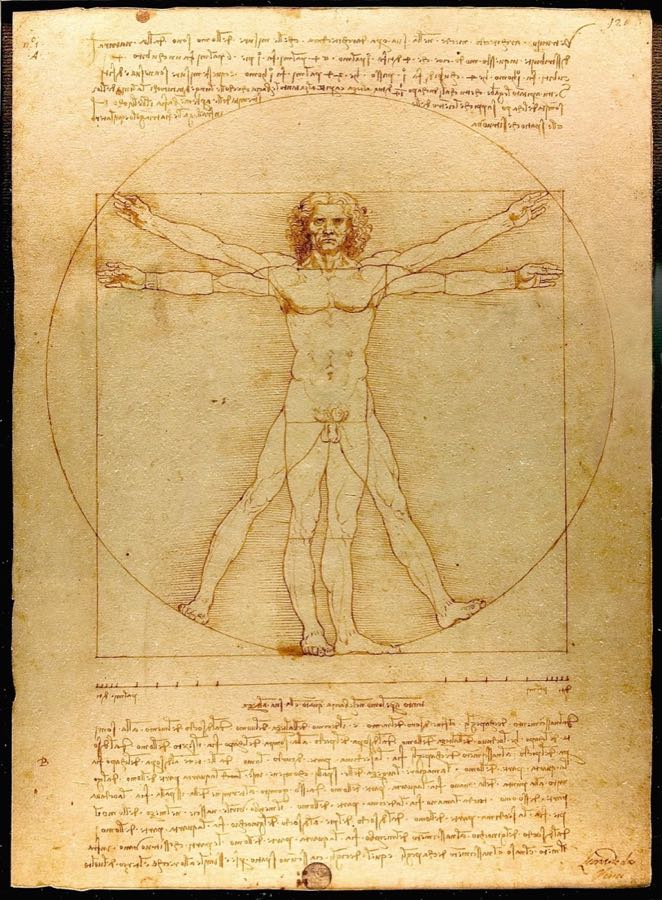
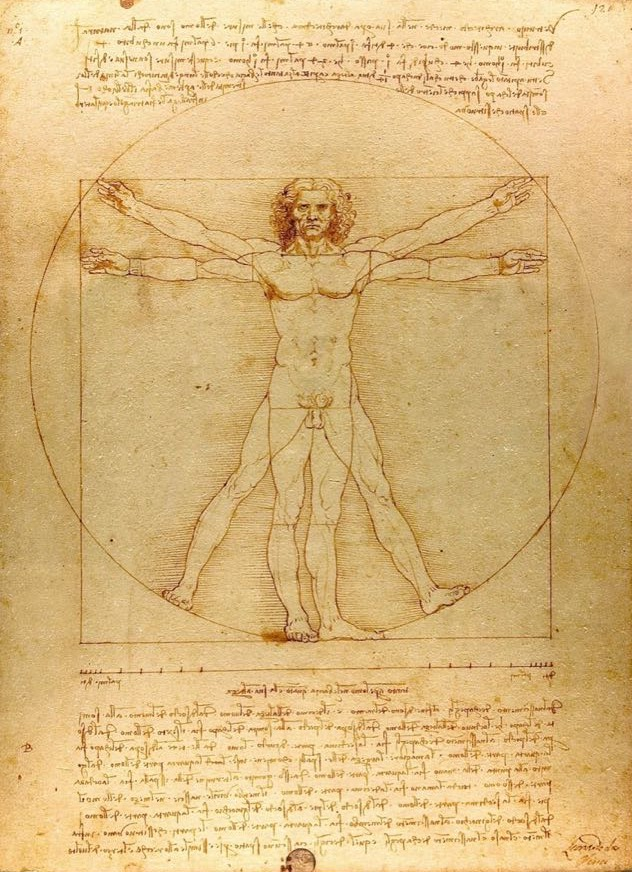
Home: le opere del poster senza margini di carta, fino ai bordi
Le stampe di Piranesi, e i bordi di altre scansioni, portavano nel
file il margine della carta e la didascalia: riempiendo il riquadro
comparivano come bande chiare in alto e in basso, con la riga della
lastra. Ora i file contengono solo l'opera, e i tagli sono rifatti
sulle nuove proporzioni (Piazza del Popolo: le due chiese intere).

La Gismonda di Mucha, tolta la carta, restava larga 237 pixel: sul
telefono sarebbe sfocata, ed esce dalla rotazione. Un test verifica
che ogni immagine abbia almeno un pixel per punto del riquadro.

Il poster sfuma negli ultimi 12 pixel: con un'altezza non intera,
sull'ultima riga gli strati sotto il velo trasparivano come una riga.
Service worker alla v26, perché sul web le immagini non restino
quelle vecchie in cache.

diff --git a/src/lib/poster.ts b/src/lib/poster.ts
@@ -4,6 +4,13 @@
    CREDITI.md), scelte per tema; due o tre per tema, a rotazione
    giornaliera. L'insegnamento può sovrascriverle con un'immagine
    propria (campo `immagine`).
+
+   I file contengono solo l'opera: margini della carta, didascalie e
+   bordi della scansione sono tagliati via, perché il poster riempie
+   il riquadro fino ai bordi e lì si vedrebbero come bande chiare.
+   E devono essere abbastanza grandi per lo schermo del telefono: il
+   lato che riempie il riquadro (393×460 punti) deve avere almeno un
+   pixel per punto, o l'opera si vede sfocata.
    ============================================================ */
 
 const P = (n: string) => `${import.meta.env.BASE_URL}poster/${n}.jpg`
@@ -11,8 +18,8 @@ const P = (n: string) => `${import.meta.env.BASE_URL}poster/${n}.jpg`
 const TEMI: Record<string, string[]> = {
   matematica:  ['durer-melencolia', 'geometria-medievale', 'leonardo-codice-atlantico'],
   disegno:     ['piranesi-carceri', 'leonardo-vitruviano', 'leonardo-anatomia'],
-  arti:        ['mucha-gismonda', 'morris-tulip-willow', 'piranesi-piazza-del-popolo'],
-  grafica:     ['lissitzky-cuneo-rosso', 'kandinsky-composizione-8', 'mucha-gismonda'],
+  arti:        ['morris-tulip-willow', 'piranesi-piazza-del-popolo', 'durer-melencolia'],
+  grafica:     ['lissitzky-cuneo-rosso', 'kandinsky-composizione-8', 'mondrian-composizione-1921'],
   prodotto:    ['perriand-poltrona', 'ford-catena-1913', 'blossfeldt-acanthus'],
   spazio:      ['bauhaus-dessau', 'piranesi-piazza-del-popolo', 'piranesi-colosseo'],
   forma:       ['bauhaus-maestri-1926', 'kandinsky-composizione-8', 'bauhaus-dessau', 'mondrian-composizione-1921'],
@@ -46,10 +53,9 @@ export const FUOCHI: Record<string, string> = {
   'leonardo-vitruviano':        '50% 10%',  // la figura e il cerchio, non il testo
   'lissitzky-cuneo-rosso':      '45% 30%',  // il cuneo che entra nel cerchio
   'marey-bicicletta':           '20% 30%',
-  'mucha-gismonda':             '50% 15%',
   'muybridge-salto':            '0% 30%',   // due colonne di fotogrammi intere
   'piranesi-colosseo':          '8% 30%',   // la curva che si allontana
-  'piranesi-piazza-del-popolo': '42% 30%',  // le due chiese con l'obelisco in mezzo
+  'piranesi-piazza-del-popolo': '38% 30%',  // le due chiese intere, l'obelisco in mezzo
 }
 
 /** Il taglio per un'immagine del poster; per le altre (anche quelle

diff --git a/src/lib/poster.test.ts b/src/lib/poster.test.ts
@@ -1,11 +1,23 @@
 import { describe, it, expect } from 'vitest'
-import { existsSync, readdirSync } from 'node:fs'
+import { existsSync, readdirSync, readFileSync } from 'node:fs'
 import { fileURLToPath } from 'node:url'
 import { dirname, join } from 'node:path'
 import { FUOCHI, fuocoDi, immaginePer, immagineLibera } from './poster'
 
 const CARTELLA = join(dirname(fileURLToPath(import.meta.url)), '..', '..', 'public', 'poster')
 const nome = (url: string) => /\/poster\/([a-z0-9-]+)\.jpg$/.exec(url)![1]
+
+/** Larghezza e altezza di un JPEG, dal segmento SOF. */
+function misure(file: string): [number, number] {
+  const b = readFileSync(file)
+  let i = 2
+  while (i < b.length) {
+    const m = b[i + 1], lung = b.readUInt16BE(i + 2)
+    if (m >= 0xc0 && m <= 0xc3) return [b.readUInt16BE(i + 7), b.readUInt16BE(i + 5)]
+    i += 2 + lung
+  }
+  throw new Error(`${file}: misure non trovate`)
+}
 
 describe('immagini del poster', () => {
   it('ogni immagine che la home può scegliere esiste', () => {
@@ -16,11 +28,21 @@ describe('immagini del poster', () => {
     ]
     for (const u of urls) expect(existsSync(join(CARTELLA, `${nome(u)}.jpg`)), u).toBe(true)
   })
+
+  it('ogni immagine è abbastanza grande da riempire il riquadro senza sfocare', () => {
+    // Il riquadro è circa 393×460 punti: di un'opera orizzontale conta
+    // l'altezza, di una verticale la larghezza, e serve almeno un pixel
+    // dell'immagine per punto.
+    for (const f of readdirSync(CARTELLA).filter(f => f.endsWith('.jpg'))) {
+      const [w, h] = misure(join(CARTELLA, f))
+      expect(w / h > 393 / 460 ? h : w, f).toBeGreaterThanOrEqual(460)
+    }
+  })
 })
 
 describe('fuocoDi', () => {
   it('dà il taglio scelto per un\'opera, a prescindere dalla base dell\'URL', () => {
-    expect(fuocoDi('/poster/piranesi-piazza-del-popolo.jpg')).toBe('42% 30%')
+    expect(fuocoDi('/poster/piranesi-piazza-del-popolo.jpg')).toBe('38% 30%')
     expect(fuocoDi('/AppSapienza/poster/leonardo-vitruviano.jpg')).toBe('50% 10%')
   })
 

diff --git a/src/styles/schermi.css b/src/styles/schermi.css
@@ -473,7 +473,14 @@
 
 /* ---------------- Poster generativo ---------------- */
 
-.poster { position: absolute; inset: 0; overflow: hidden; background: #060607; }
+/* L'altezza dell'eroe non è un numero intero di pixel: sull'ultima
+   riga gli strati sotto il velo (foto, luci) trasparivano come una
+   riga colorata. Il poster sfuma nella pagina, che ha lo stesso nero. */
+.poster {
+  position: absolute; inset: 0; overflow: hidden; background: #060607;
+  -webkit-mask-image: linear-gradient(to top, transparent 0, #000 12px);
+  mask-image: linear-gradient(to top, transparent 0, #000 12px);
+}
 .poster-luci { position: absolute; inset: -10%; }
 .poster-sigla {
   position: absolute;

diff --git a/public/sw.js b/public/sw.js
@@ -5,7 +5,7 @@
    Dopo la prima visita online l'app parte anche senza rete.
    ============================================================ */
 
-const CACHE = 'libretto-v25'
+const CACHE = 'libretto-v26'
 
 // Al primo avvio il service worker non controlla ancora le richieste
 // già partite, quindi i bundle non finirebbero in cache: l'app

diff --git a/public/poster/CREDITI.md b/public/poster/CREDITI.md
@@ -1,13 +1,12 @@
 # Immagini dei poster
 
-Tutte in pubblico dominio o CC0, da Wikimedia Commons. Ridimensionate e compresse per l'app.
+Tutte in pubblico dominio o CC0, da Wikimedia Commons. Ridimensionate e compresse per l'app; alle stampe e alle scansioni sono stati tolti i margini della carta, le didascalie e i bordi.
 
 - `durer-melencolia.jpg` — Albrecht Dürer - Melencolia I - Google Art Project (465009).jpg — Public domain — Albrecht Dürer — https://commons.wikimedia.org/?curid=21977779
 - `geometria-medievale.jpg` — Woman teaching geometry.jpg — Public domain — Attributed to Meliacin Master — https://commons.wikimedia.org/?curid=468726
 - `piranesi-carceri.jpg` — Giovanni Battista Piranesi - Carceri Series, Plate XIV - Google Art Project.jpg — Public domain — Giovanni Battista Piranesi — https://commons.wikimedia.org/?curid=21907967
 - `leonardo-vitruviano.jpg` — Da Vinci Vitruve Luc Viatour.jpg — Public domain — Leonardo da Vinci — https://commons.wikimedia.org/?curid=2738140
 - `leonardo-anatomia.jpg` — Leonardo da Vinci - RCIN 912617, The anatomy of the leg, and other studies c.1485-8.jpg — Public domain — Leonardo da Vinci — https://commons.wikimedia.org/?curid=93226240
-- `mucha-gismonda.jpg` — Alphonse Mucha - Poster for Victorien Sardou's Gismonda starring Sarah Bernhardt - Original.jpg — Public domain — Alphonse Mucha — https://commons.wikimedia.org/?curid=92177462
 - `morris-tulip-willow.jpg` — Morris Tulip and Willow design 1873.jpg — Public domain — William Morris — https://commons.wikimedia.org/?curid=2445091
 - `lissitzky-cuneo-rosso.jpg` — Beat the Whites with the Red Wedge.jpg — Public domain — El Lissitzky — https://commons.wikimedia.org/?curid=122361807
 - `kandinsky-composizione-8.jpg` — Wassily Kandinsky Composition VIII.jpg — Public domain — Wassily Kandinsky — https://commons.wikimedia.org/?curid=77963326
